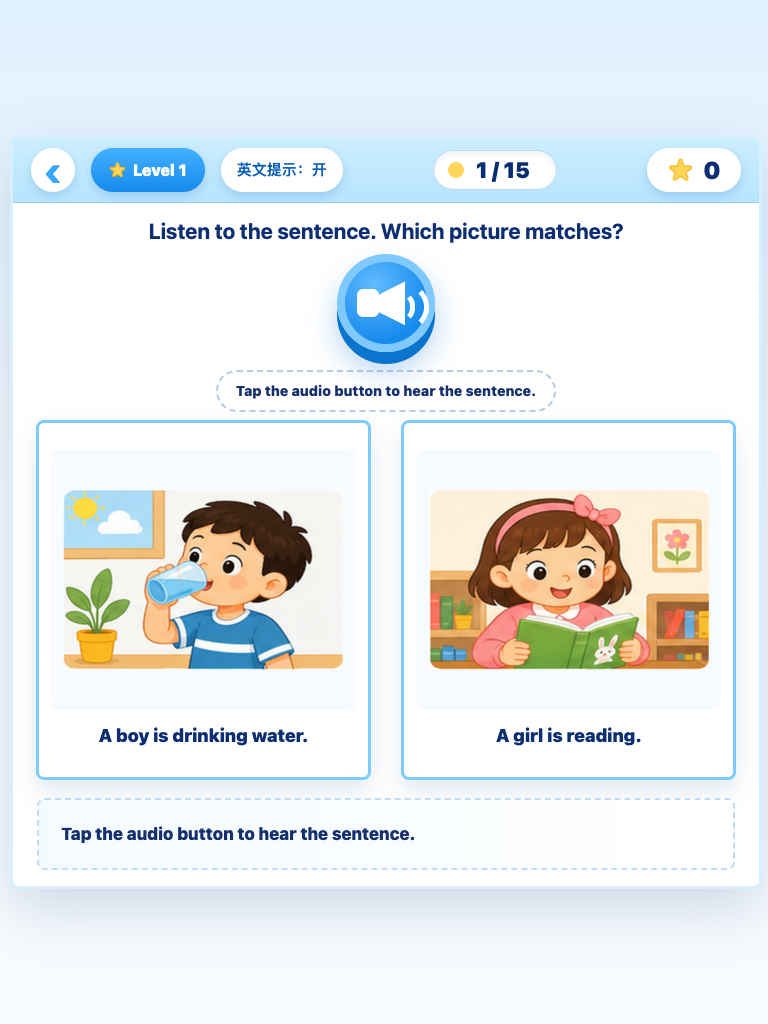
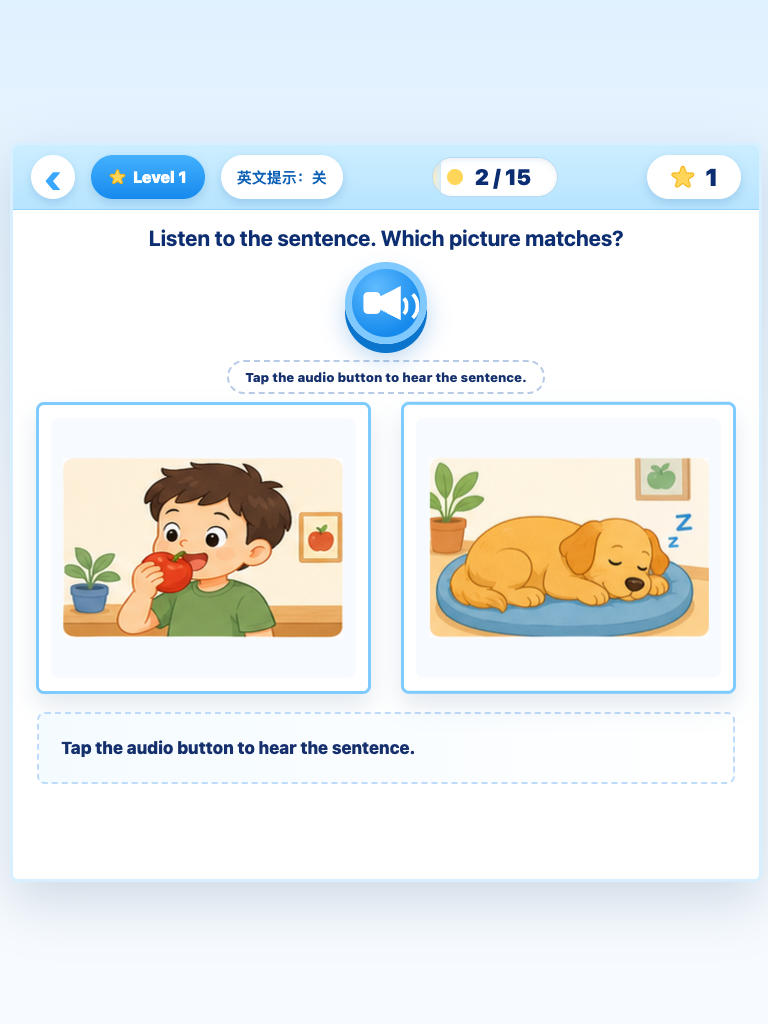
feat: retry incorrect answers and reduce audio control

diff --git a/styles.css b/styles.css
@@ -303,9 +303,9 @@ button {
 }
 
 .replay-button {
-  width: 98px;
-  height: 98px;
-  border: 8px solid #7fc9ff;
+  width: 82px;
+  height: 82px;
+  border: 7px solid #7fc9ff;
   border-radius: 50%;
   padding: 0;
   display: inline-grid;
@@ -314,8 +314,8 @@ button {
   color: #fff;
   background: radial-gradient(circle at 36% 28%, #61bbff, #168bed 72%);
   box-shadow:
-    0 12px 0 #0b75ce,
-    0 18px 30px rgba(19, 114, 207, 0.34);
+    0 9px 0 #0b75ce,
+    0 14px 24px rgba(19, 114, 207, 0.3);
 }
 
 .speaker-icon {
@@ -323,6 +323,7 @@ button {
   height: 48px;
   position: relative;
   display: block;
+  transform: scale(0.78);
 }
 
 .speaker-icon::before {
@@ -374,14 +375,14 @@ button {
 
 .sentence-text {
   width: fit-content;
-  min-height: 42px;
-  margin: 18px auto 0;
-  padding: 10px 18px;
+  min-height: 34px;
+  margin: 16px auto 0;
+  padding: 7px 16px;
   border: 2px dashed #b8cbe6;
   border-radius: 999px;
   color: #15306c;
   background: #fff;
-  font-size: 14px;
+  font-size: 13px;
   font-weight: 850;
 }
 
@@ -755,8 +756,16 @@ button {
   }
 
   .replay-button {
-    width: 96px;
-    height: 96px;
+    width: 72px;
+    height: 72px;
+    border-width: 6px;
+    box-shadow:
+      0 7px 0 #0b75ce,
+      0 12px 20px rgba(19, 114, 207, 0.28);
+  }
+
+  .speaker-icon {
+    transform: scale(0.66);
   }
 
   .sentence-text {